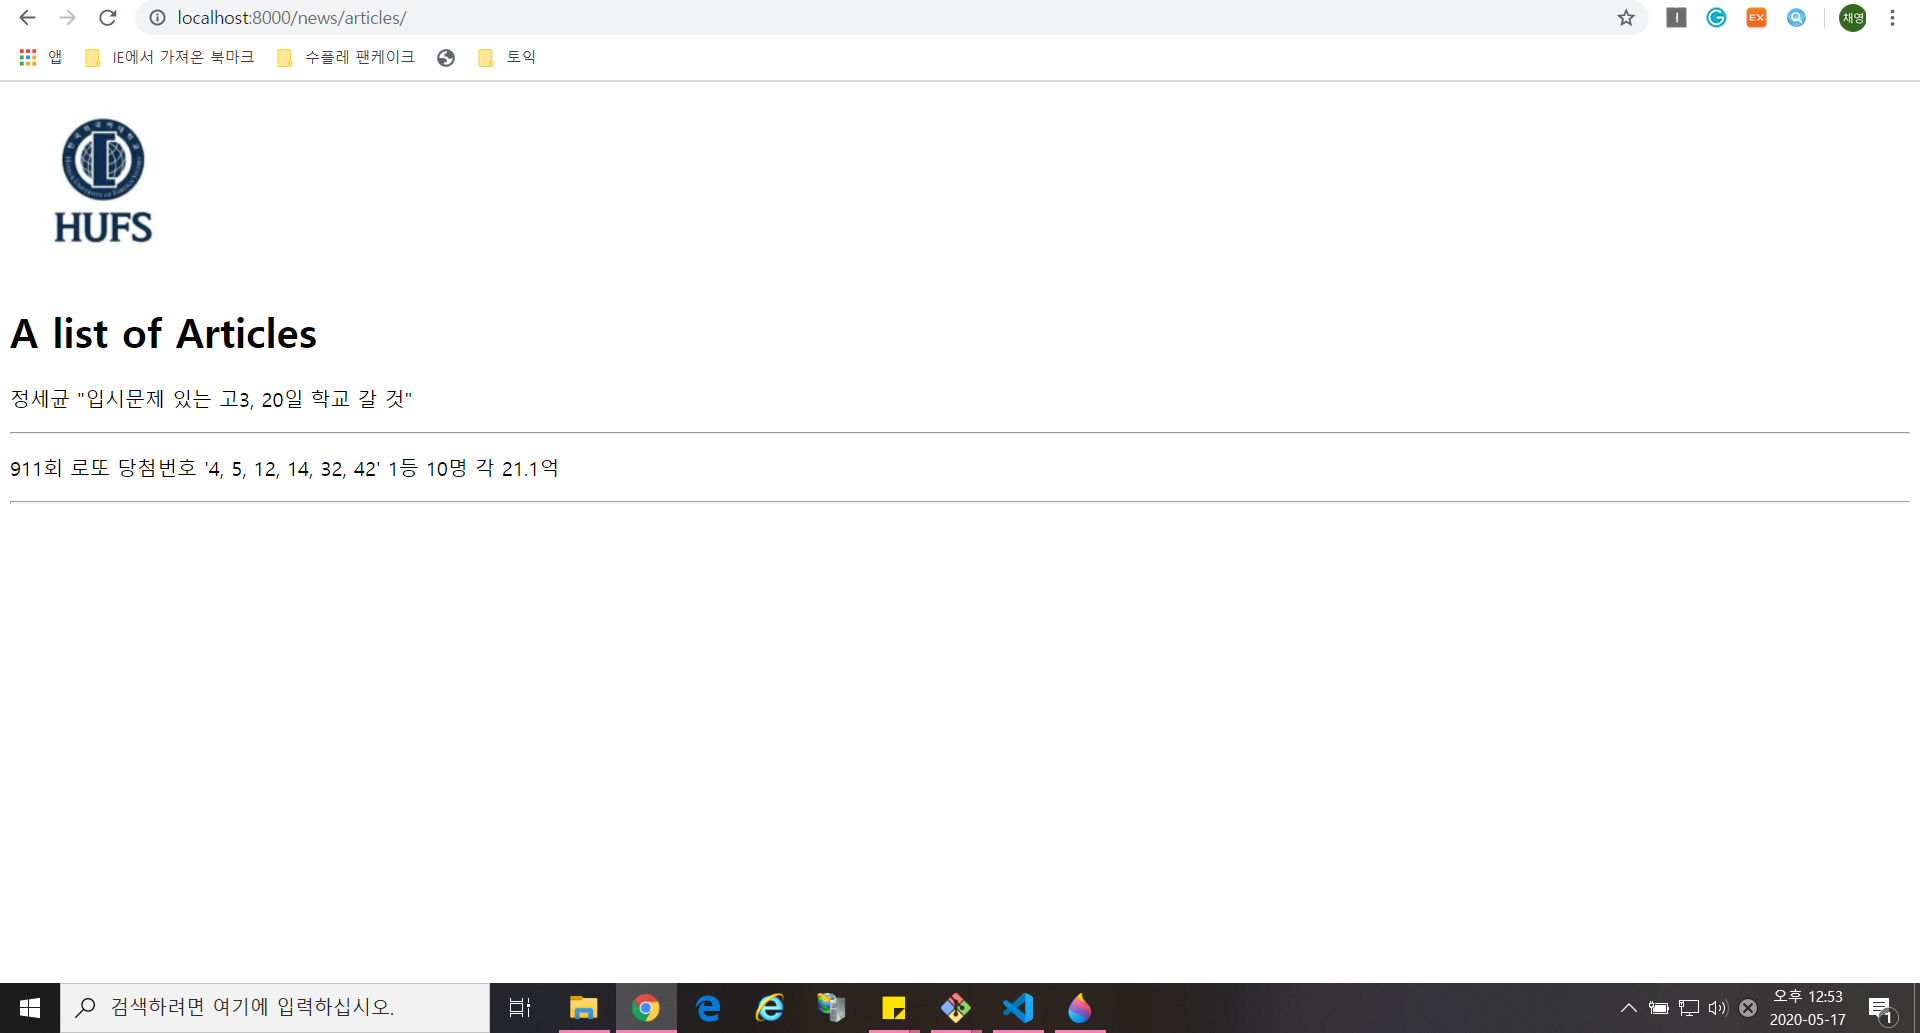
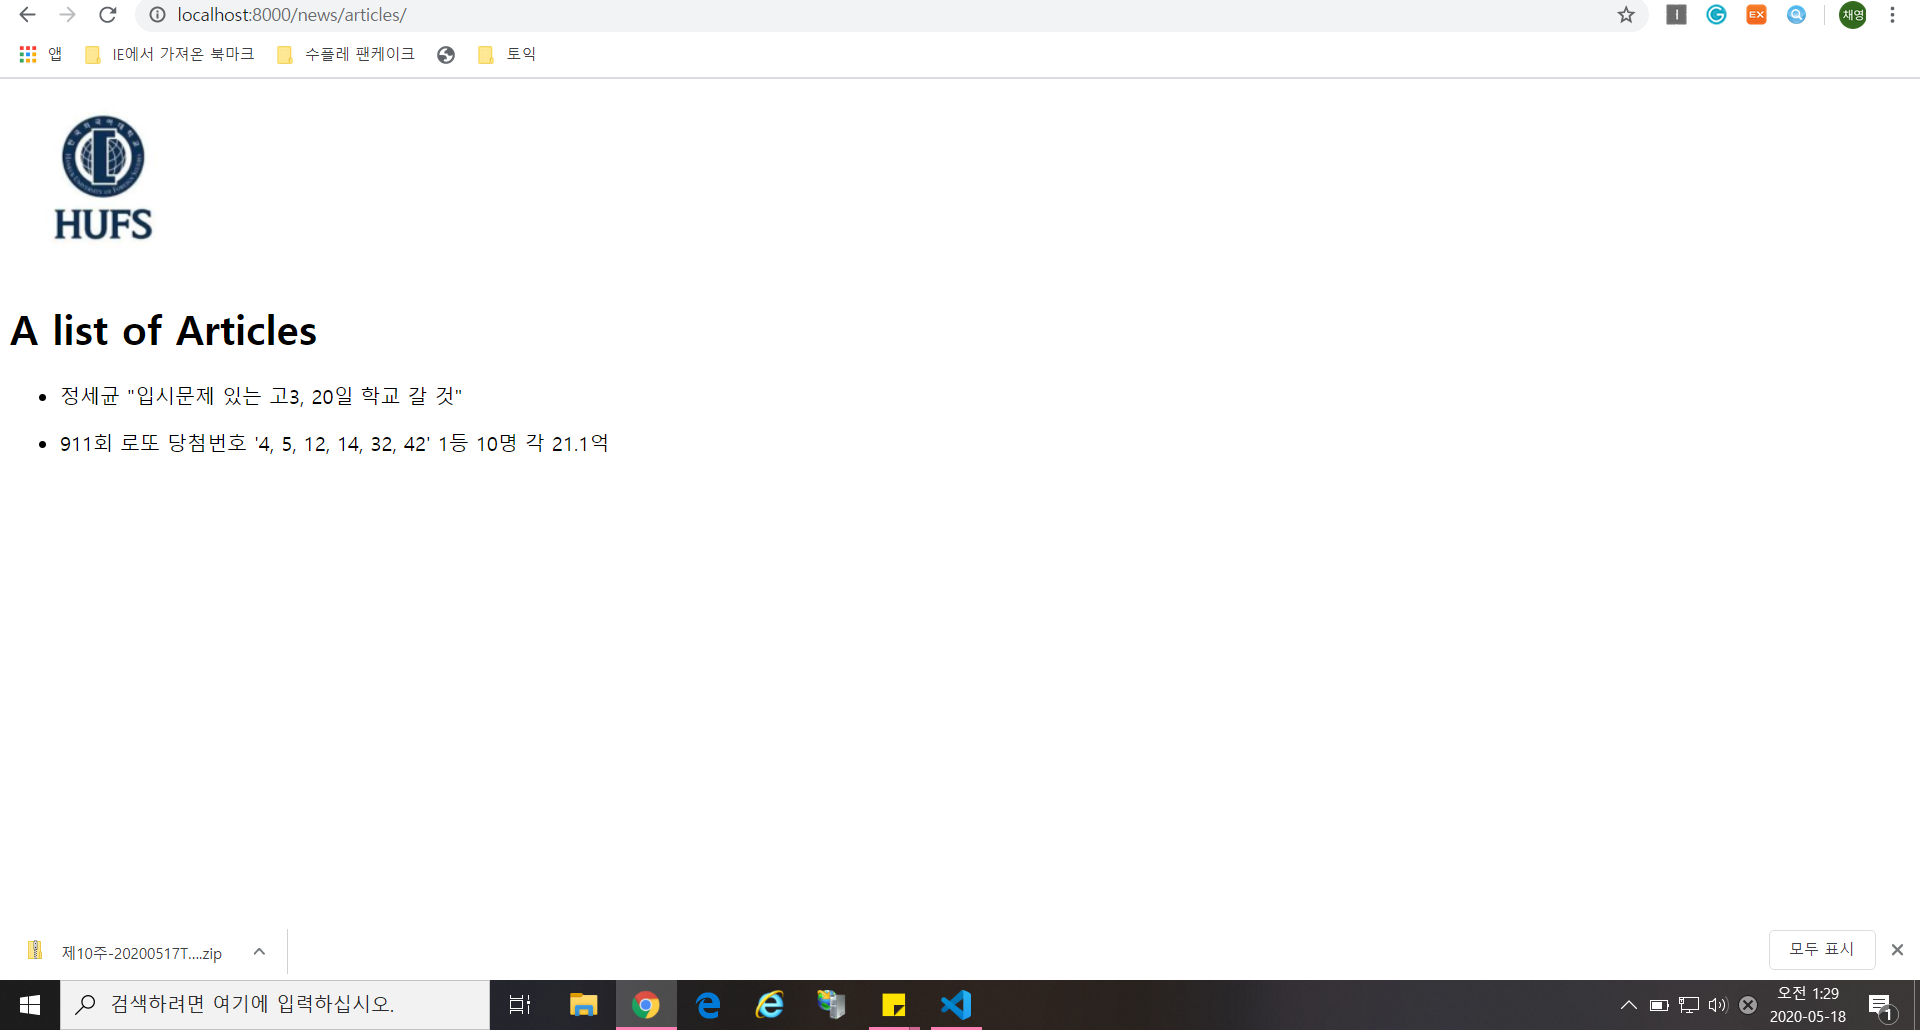
change article_archive.html

diff --git a/mysite/news/templates/news/article_archive.html b/mysite/news/templates/news/article_archive.html
@@ -5,8 +5,9 @@
 {% block content %}
 <h1>A list of Articles</h1>
 
+<ul>
 {% for article in article_list %}
-    <p>{{ article.headline }}</p>
-    <hr>
+    <li><p>{{ article.headline }}</p></li>
 {% endfor %}
+</ul>
 {% endblock %}
